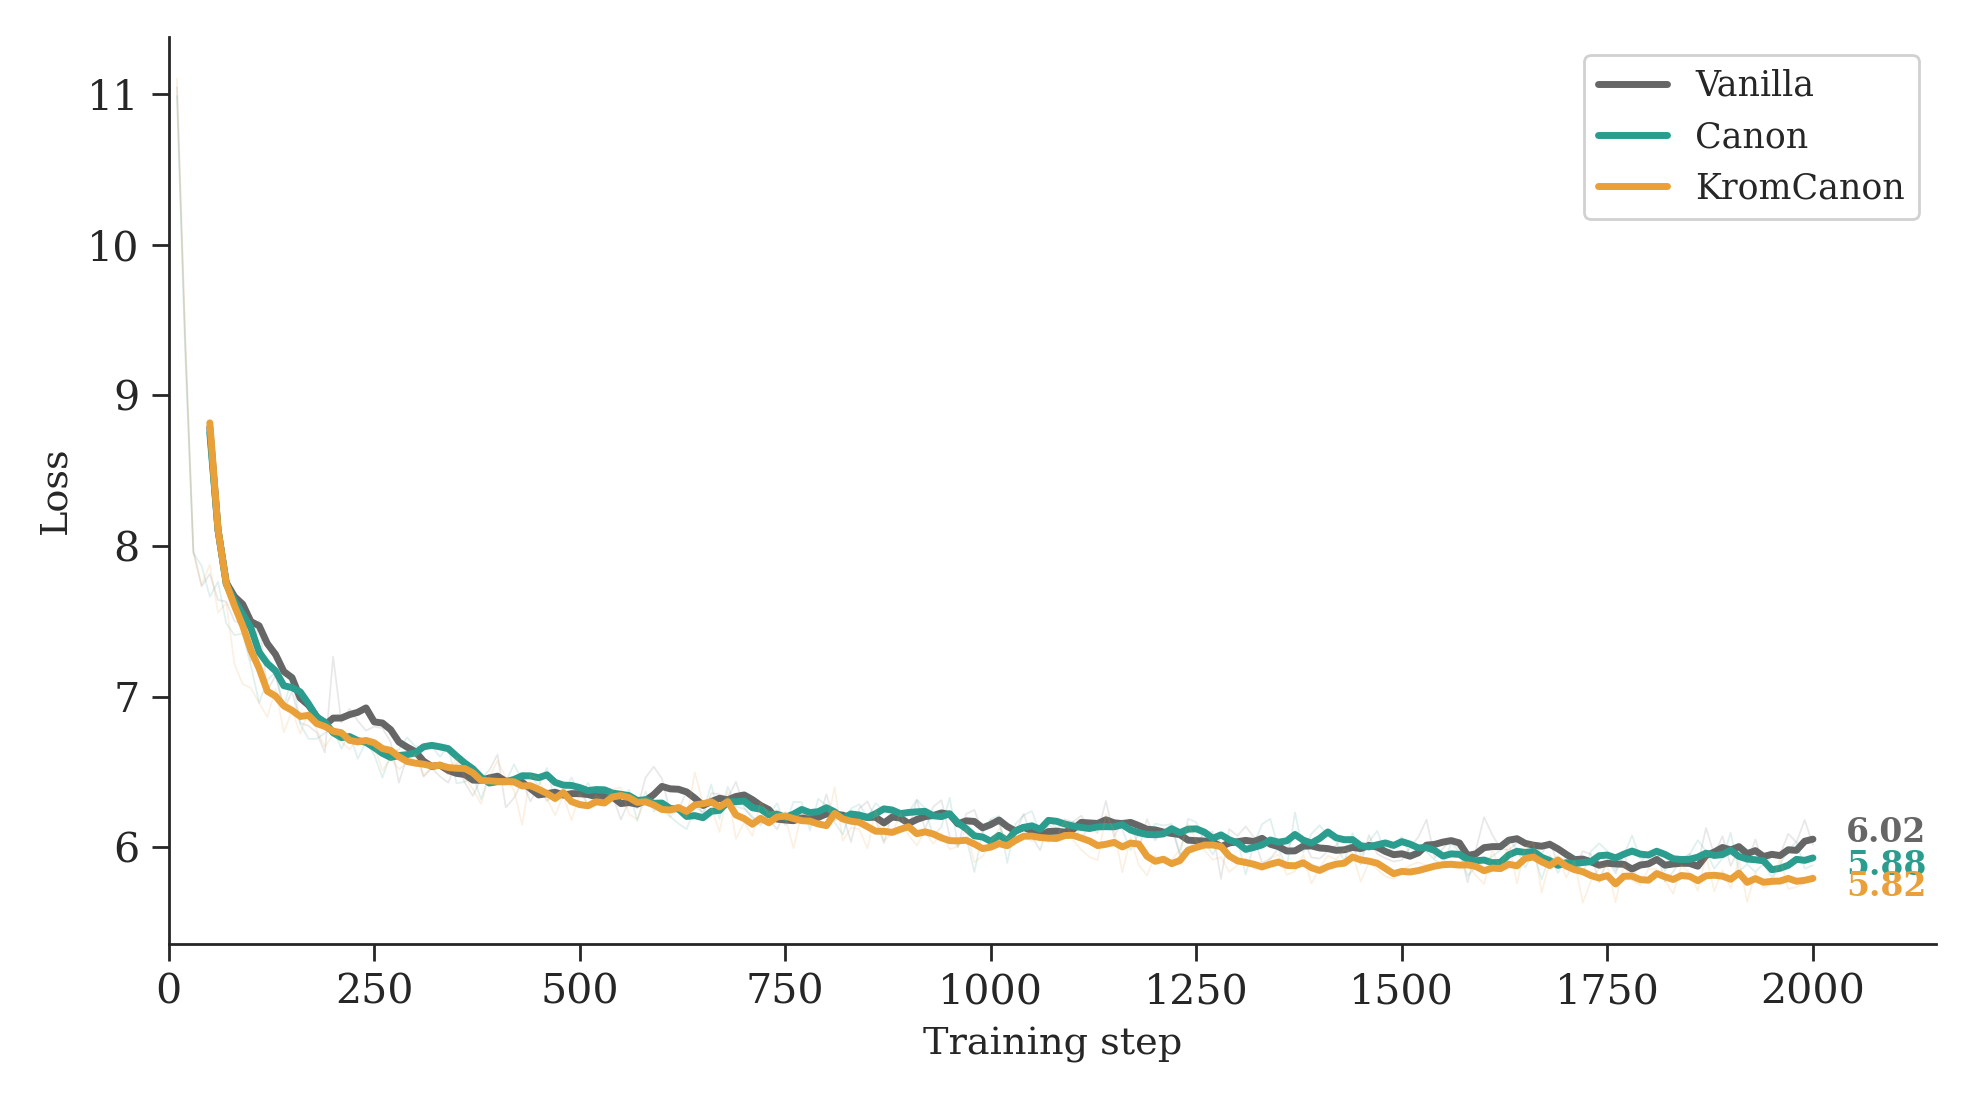
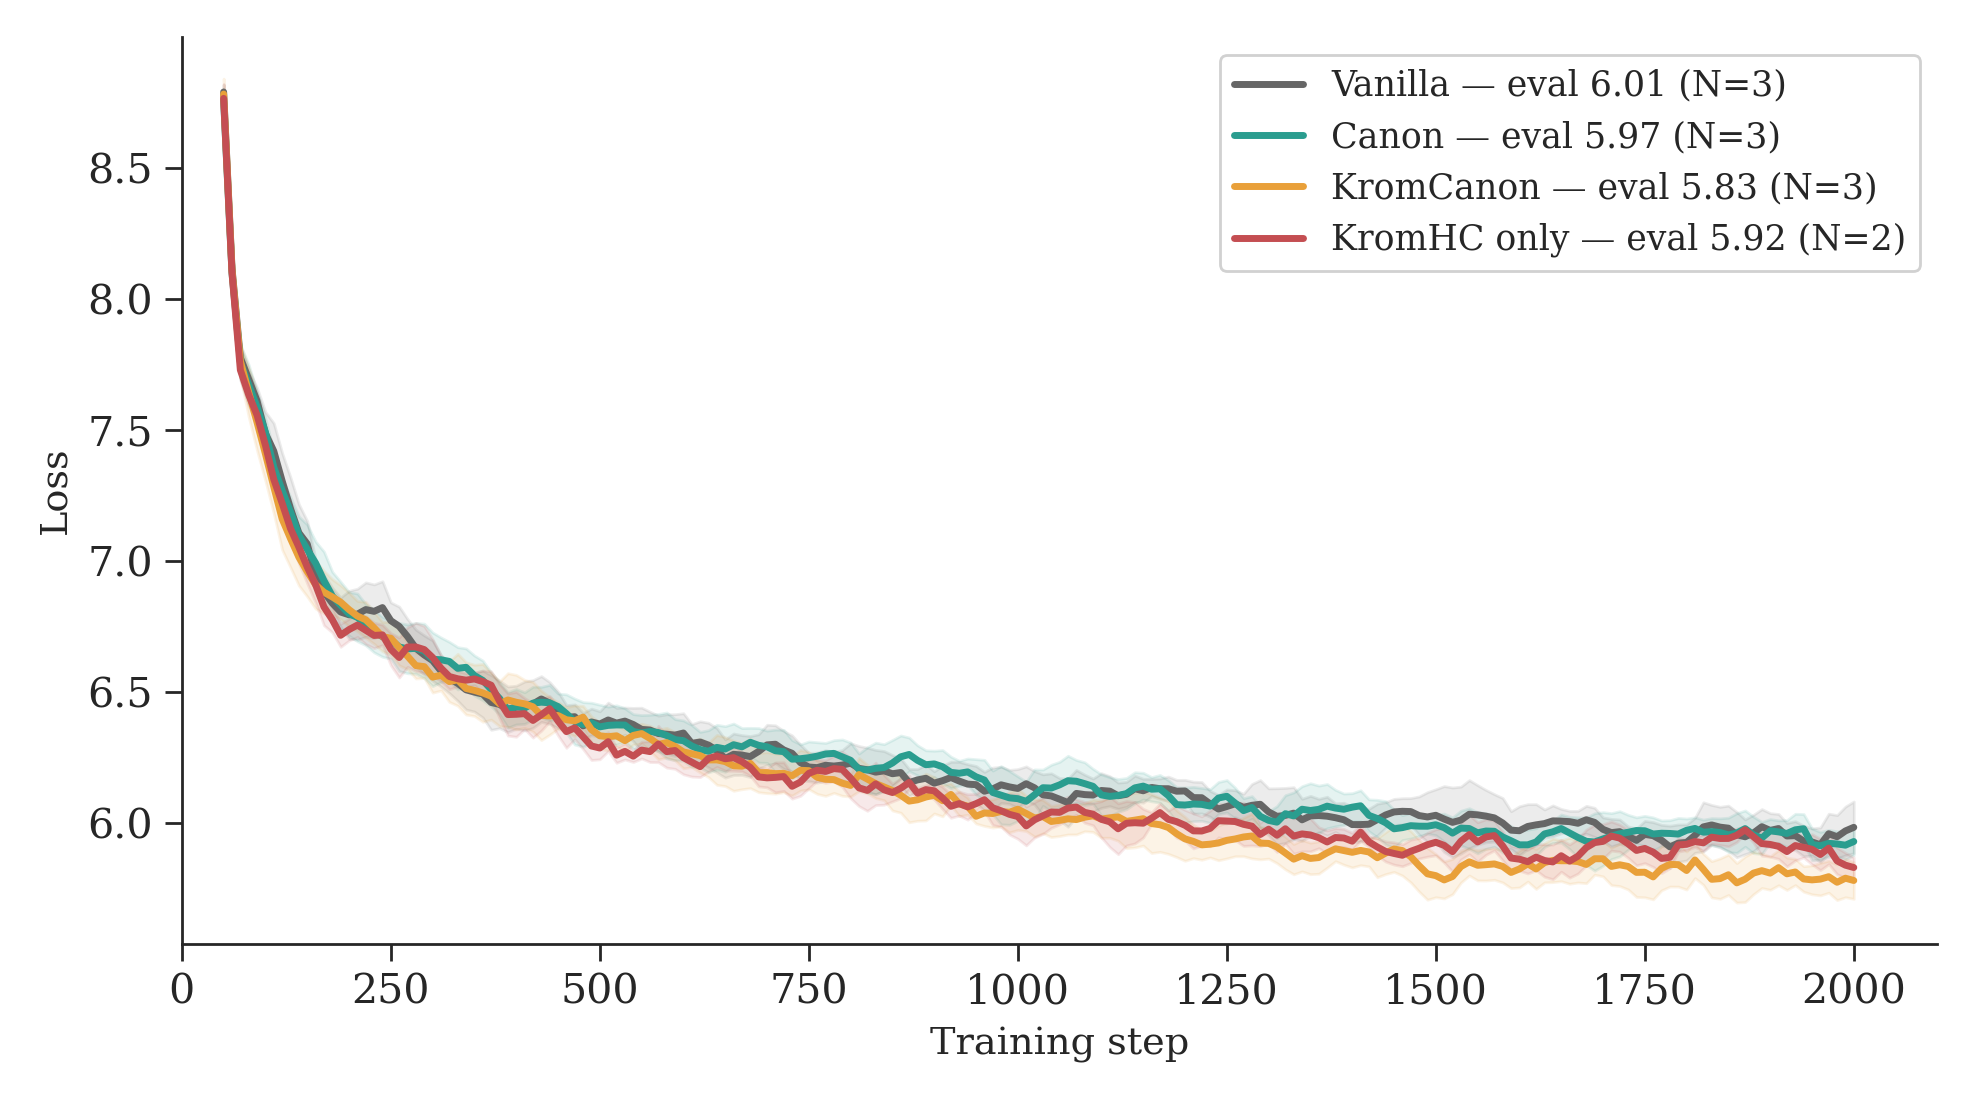
Update training curves (N=3 bands, 4 architectures) and cosines (N=3 error bars)
Training curves: mean ± std bands for all 4 architectures across
N=2-3 seeds. Eval losses in legend. KromHC-only curve added.

Cosines: N=3 error bars for bias=-8 (± 0.002) and bias=-2 (± 0.0001).

diff --git a/content/posts/the-gradient-trap.md b/content/posts/the-gradient-trap.md
@@ -21,7 +21,7 @@ That's what we found. We trained three GPT-2[^2] variants from scratch on Apple 
 
 Same data, same hyperparameters, same number of training steps. The only difference is architecture.
 
-![Three GPT-2 variants trained from scratch on FineWeb-Edu. All converge to similar loss levels: Vanilla 6.02, Canon 5.88, KromCanon 5.82. The comparison is fair.](/kromcanon-training-curves.png)
+![Four GPT-2 variants trained from scratch on FineWeb-Edu with N=3 seeds (N=2 for KromHC only). Mean curves with ± std bands. Eval loss: Vanilla 6.01, Canon 5.97, KromHC only 5.92, KromCanon 5.83. The ordering KromCanon < KromHC < Canon < Vanilla is consistent across all seeds.](/kromcanon-training-curves.png)
 
 We wanted to see how each modification affects the model's internal structure. What we stumbled onto instead is a question we did not find addressed in the KromHC paper: whether the mixing matrices actually learn to mix.
 
